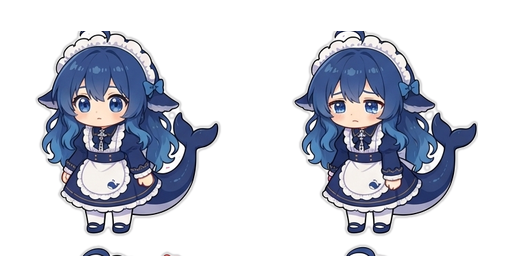
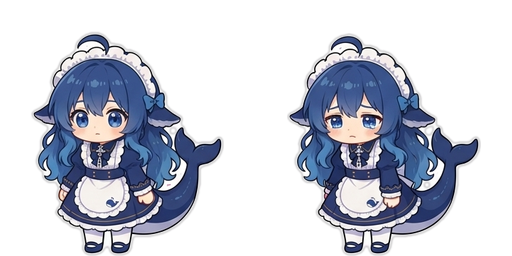
fix(assets): 轮廓法定位 bbox——格子放宽 + 最大连通域（不切头、不混邻图）
- 回答：之前 bbox 是 alpha 包围盒（content_bbox），不是轮廓——格子边界切了头顶、放进邻图
- 修复（用户指点的正确顺序）：格子四向放宽 45px（不再切角色）→ 每帧取**4-连通最大连通域** bbox（邻格误入的小块是独立小连通域，被排除）
- 效果：各帧 y0=31~37（顶部留白）、x 居中无邻图混入（disappointed 之前顶部被裁+底部误入）
- 验证：web 无崩溃、assets 200、冒烟 OK

diff --git a/scripts/slice-sheet.py b/scripts/slice-sheet.py
@@ -319,17 +319,61 @@ def detect_grid(img, max_cells=8):
     return row_bounds, col_bounds
 
 
-def build_state_sheet(img, row_bounds, col_bounds, row, cols, size, scale=0.88):
-    """把一行（同一状态的帧）做成帧 sheet（图形学式逐对象配准）：
-    先抠图（调用方已完成）→ 每帧**独立**裁到自身内容 bbox → **统一缩放因子**
-    （scale = 目标高 / 全帧最大内容高；最高帧达目标高，其余按真实比例更矮——
-    逐帧归一化会把"抬手帧压扁/蹲伏帧拉伸"造成忽大忽小与过裁感）→
-    **底中对齐**（脚着地；x 居中消除左右漂移）。空帧跳过。"""
+def largest_blob_bbox(cell):
+    """轮廓法：cell 内 4-连通**最大连通域**的 bbox。
+    取代简单 alpha 包围盒——格子放宽后邻格角色的小块会误入，包围盒会包含它们；
+    最大连通域只取角色本体（邻块是独立小连通域，被排除）。"""
+    from collections import deque
+
+    alpha = np.asarray(cell.getchannel('A'))
+    mask = alpha > 40
+    h, w = mask.shape
+    visited = np.zeros_like(mask)
+    best = None
+    for y0 in range(h):
+        for x0 in range(w):
+            if not mask[y0, x0] or visited[y0, x0]:
+                continue
+            area = 0
+            minx = maxx = x0
+            miny = maxy = y0
+            q = deque([(y0, x0)])
+            visited[y0, x0] = True
+            while q:
+                y, x = q.popleft()
+                area += 1
+                if x < minx:
+                    minx = x
+                if x > maxx:
+                    maxx = x
+                if y < miny:
+                    miny = y
+                if y > maxy:
+                    maxy = y
+                for ny, nx in ((y - 1, x), (y + 1, x), (y, x - 1), (y, x + 1)):
+                    if 0 <= ny < h and 0 <= nx < w and mask[ny, nx] and not visited[ny, nx]:
+                        visited[ny, nx] = True
+                        q.append((ny, nx))
+            if best is None or area > best[0]:
+                best = (area, (minx, miny, maxx, maxy))
+    return best[1] if best else None
+
+
+def build_state_sheet(img, row_bounds, col_bounds, row, cols, size, scale=0.88, expand=45):
+    """把一行（同一状态的帧）做成帧 sheet（轮廓法逐对象配准）：
+    先抠图（调用方完成）→ **格子垂直放宽 expand px**（格子边界不再切角色头顶）→
+    每帧取**最大连通域** bbox（排除邻格误入的小块）→ 统一缩放因子 → 底中对齐。
+    这是用户指点的正确顺序：宽松取域 + 轮廓定位，避免过裁与邻图误入。"""
     frames = []
     for c in cols:
         (yt, yb), (xl, xr) = row_bounds[row], col_bounds[c]
-        cell = img.crop((xl, yt, xr, yb))
-        bb = content_bbox(cell)
+        # 放宽：格子边界可能切进角色（头顶被裁/邻图误入的根因）；轮廓法会重新定位本体
+        cx0 = max(0, xl - expand)
+        cx1 = min(img.width, xr + expand)
+        cy0 = max(0, yt - expand)
+        cy1 = min(img.height, yb + expand)
+        cell = img.crop((cx0, cy0, cx1, cy1))
+        bb = largest_blob_bbox(cell)
         if bb is None:
             continue
         frames.append((cell, bb))
